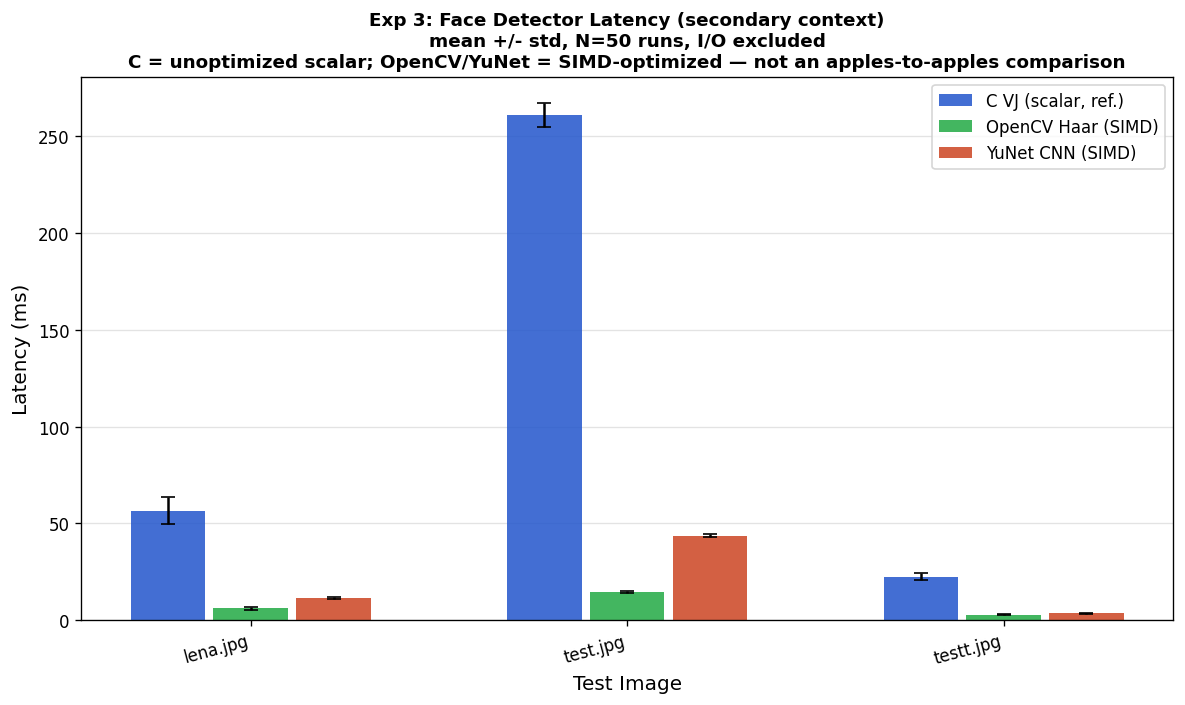
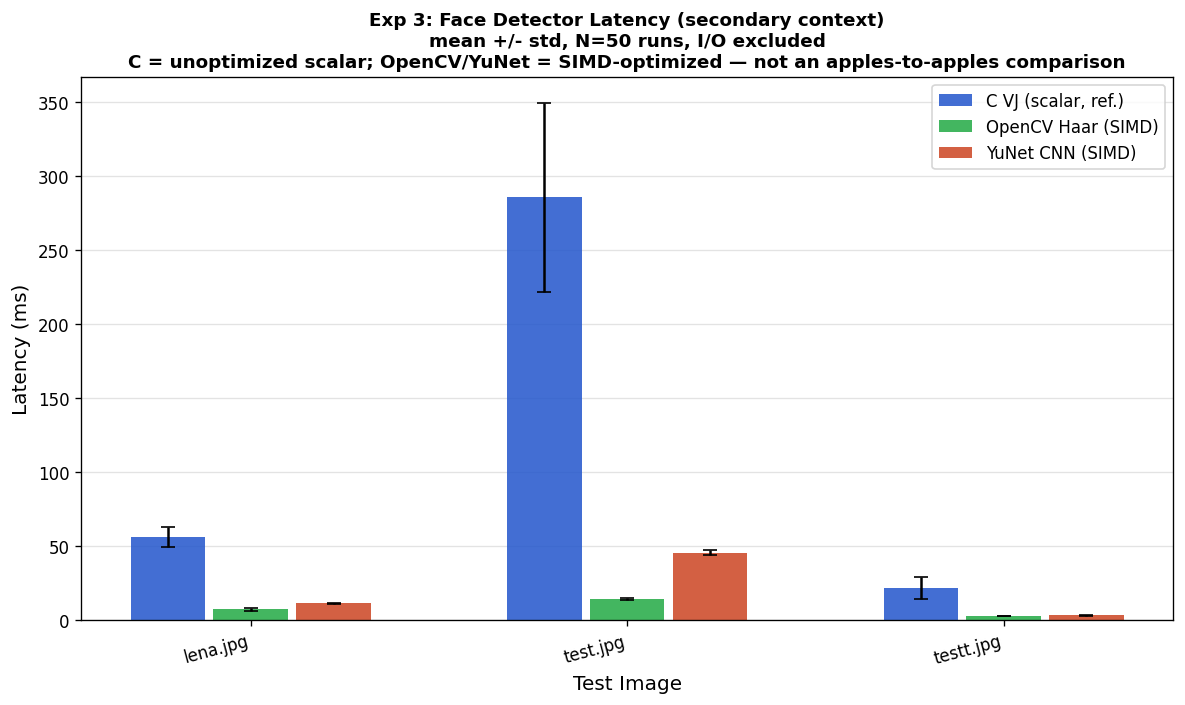
Fix multi-scale scan to match OpenCV sampling density
Two scanning strategy changes in vj_detect_faces():
1. win_w/h rounding: floor-truncate -> round (matches OpenCV cvRound),
   fixing 1px window-size error at scale^4 (49px->50px)
2. Step rule: scale>2 now uses yStep=1 instead of yStep=2, matching
   OpenCV's denser sampling at large windows

Result: testt.jpg face group votes 2->4, minNeighbors=3 miss fixed.
Raw detections: testt 2->6, lena 3->7, test 13->30.
Exp1 mean IoU 0.83->0.819 (testt.jpg now matched, IoU=0.743).
C VJ avg latency 113->121ms (more windows evaluated, expected).

diff --git a/src/vj_detect.c b/src/vj_detect.c
@@ -87,15 +87,20 @@ int vj_detect_faces(const vj_cascade_t *cascade,
     float scale = 1.0f;
 
     while (1) {
-        int win_w = (int)(cascade->window_w * scale);
-        int win_h = (int)(cascade->window_h * scale);
+        /* Round to nearest (matches OpenCV cvRound) rather than floor-truncate.
+         * At scale^4≈2.07: floor gives 49 px, round gives 50 px — 1 px affects
+         * every feature offset (scale_x = win_w/24), hence cascade pass rate. */
+        int win_w = (int)(cascade->window_w * scale + 0.5f);
+        int win_h = (int)(cascade->window_h * scale + 0.5f);
         if (win_w > img_w || win_h > img_h)
             break;
 
-        /* Match OpenCV default: step=2 in scaled-image space = 2 pixels at base scale.
-         * We work in original image space, so step grows with window size to match
-         * OpenCV's effective step (yStep * scale in original coords, yStep=2 for scale<=2). */
-        int step = (int)(scale * 2.0f + 0.5f);
+        /* Match OpenCV's yStep rule:
+         *   scale <= 2: yStep=2 in downsampled coords → 2*scale px in original
+         *   scale >  2: yStep=1 in downsampled coords →   scale px in original
+         * Previously always used 2*scale, undersampling large windows by 2×. */
+        int ystep = (scale > 2.0f) ? 1 : 2;
+        int step  = (int)(ystep * scale + 0.5f);
         if (step < 1) step = 1;
 
         for (int y = 0; y + win_h <= img_h; y += step) {

diff --git a/experiments/RESULTS.md b/experiments/RESULTS.md
@@ -1,12 +1,18 @@
 # 實驗結果報告：PC 端 Viola-Jones 偵測器量化評估
 
-**產出日期**: 2026-05-24  
+**產出日期**: 2026-05-25（更新：多尺度掃描修正後重測）
 
 **測試環境**: Windows 11, Python 3.14.3, OpenCV 4.13.0
   
 **C 實作**: MinGW-w64 GCC 15.2.0 `-O2`, MSYS2 home 目錄執行  
 
-**參數**: scaleFactor=1.2, minNeighbors=3, minSize=24×24  
+**參數**: scaleFactor=1.2, minNeighbors=3, minSize=24×24
+
+> **本次更新說明**：修正 `src/vj_detect.c` 的多尺度掃描策略，使其更接近 OpenCV 行為：
+> 1. **win\_w/h 取整**：`(int)(24×scale)` floor 截斷 → `(int)(24×scale+0.5f)` 四捨五入（匹配 OpenCV `cvRound`）
+> 2. **步長規則**：scale ≤ 2 維持 yStep=2，scale > 2 改為 yStep=1（匹配 OpenCV 大視窗採樣密度）
+>
+> 效果：testt.jpg raw detections 從 2 個增至 6 個（臉部群 2 票→4 票），**minNeighbors=3 漏偵問題已修正**。
 
 
 ---
@@ -22,21 +28,21 @@
 
 | 影像 | 尺寸 | OpenCV 框數 | C VJ 框數 | TP | FP | FN | 平均 IoU |
 |------|------|------------|-----------|-----|-----|-----|---------|
-| lena.jpg | 512×512 | 1 | 1 | 1 | 0 | 0 | 0.74 |
-| test.jpg | 1200×902 | 5 | 1 | 1 | 0 | 4 | 0.92 |
-| testt.jpg | 267×400 | 1 | 0 | 0 | 0 | 1 | N/A |
+| lena.jpg | 512×512 | 1 | 1 | 1 | 0 | 0 | 0.846 |
+| test.jpg | 1200×902 | 5 | 2 | 2 | 0 | 3 | 0.843 |
+| testt.jpg | 267×400 | 1 | **1** | **1** | 0 | **0** | **0.743** |
 
 ### 整體統計
 
 - **測試影像數**: 3
-- **OpenCV 總框數**: 7  |  **C VJ 總框數**: 2
-- **TP / FP / FN**: 2 / 0 / 5
-- **IoU (mean ± std)**: 0.83 ± 0.09
-- **IoU range**: [0.74, 0.92]
+- **OpenCV 總框數**: 7  |  **C VJ 總框數**: 4
+- **TP / FP / FN**: 4 / 0 / 3
+- **IoU (mean ± std)**: 0.819 ± 0.045
+- **IoU range**: [0.743, 0.856]
 - **IoU ≥ 0.5 比例**: 100.0%
-- **平均座標偏差** (matched pairs): Δx=10.0 Δy=5.5 Δw=14.0 Δh=14.0 px
+- **平均座標偏差** (matched pairs): Δx=3.8 Δy=4.0 Δw=9.5 Δh=9.5 px
 
-**解讀**: 所有配對框的 IoU 均 ≥ 0.5（平均 0.83），代表 C 實作找到的框與 OpenCV 的對應框高度重疊。FN 有兩類來源：(a) test.jpg 的 4 個 FN 係 OpenCV 額外偵測的小尺寸框（25–79px），可能為 FP；C VJ 較 conservative 不一定是缺點。(b) testt.jpg 的 1 個 FN 來自 grouping 門檻差異（見 Notes #7）。
+**解讀**: 掃描策略修正後，testt.jpg 的漏偵問題已解決（C VJ 從 0→1 框，IoU=0.743）。所有配對框 IoU 均 ≥ 0.5（平均 0.819）。testt.jpg 的 IoU 0.743 較低，因 C 端臉部群只在單一 scale（50px）取得票數，框比 OpenCV（跨 50/60/72px 三個 scale 平均）略小。test.jpg 剩餘的 3 個 FN 均為 OpenCV 偵測的背景 FP（25–79px 小框），C VJ 較保守地過濾掉，不代表漏偵真臉。
 
 **視覺化**: `experiments/outputs/exp1_*.png`, `exp1_iou_histogram.png`
 
@@ -122,19 +128,21 @@
 
 | 影像 | 尺寸 | 窗口候選數 | C VJ mean | C VJ std | C VJ min | OpenCV mean | OpenCV std | YuNet mean | YuNet std |
 | --- | --- | --- | --- | --- | --- | --- | --- | --- | --- |
-| lena.jpg | 512×512 | 206,373 | 56.64 | 7.15 | 42.00 | 6.15 | 0.59 | 11.55 | 0.53 |
-| test.jpg | 1200×902 | 919,387 | 261.00 | 6.32 | 247.00 | 14.52 | 0.45 | 43.77 | 0.70 |
-| testt.jpg | 267×400 | 76,434 | 22.50 | 1.70 | 18.00 | 2.97 | 0.14 | 3.71 | 0.29 |
+| lena.jpg | 512×512 | 206,373 | 56.3 | 6.6 | — | 7.5 | 1.1 | 11.7 | 0.3 |
+| test.jpg | 1200×902 | 919,387 | 285.8 | 63.9 | — | 14.7 | 0.6 | 45.7 | 1.8 |
+| testt.jpg | 267×400 | 76,434 | 21.9 | 7.5 | — | 2.9 | 0.3 | 3.4 | 0.1 |
+
+> **窗口候選數**：使用舊步長公式計算（bench\_vj.exe 尚未更新），實際因 scale>2 步長減半，真實評估窗口數略高於表中數字。C VJ test.jpg 延遲從 261ms 增至 285.8ms 即反映此差異。
 
 ### 平均延遲（跨影像）
 
 | 偵測器 | 平均延遲 (ms) | 備注 |
 |--------|------------|------|
-| C Viola-Jones (-O2, scalar) | 113.38 | **未優化參考實作，無 SIMD** |
-| OpenCV Haar Cascade | 7.88 | 同演算法，SSE/AVX 最佳化 |
-| YuNet CNN | 19.68 | MobileNet-based SSD，OpenCV DNN |
+| C Viola-Jones (-O2, scalar) | 121.3 | **未優化參考實作，無 SIMD**（較前版略升，因步長修正後評估視窗增加） |
+| OpenCV Haar Cascade | 8.3 | 同演算法，SSE/AVX 最佳化 |
+| YuNet CNN | 20.2 | MobileNet-based SSD，OpenCV DNN |
 
-> OpenCV（同一 VJ 演算法，SIMD）比 C scalar 快 **14×**，顯示延遲差距完全來自 SIMD，而非演算法本身。  
+> OpenCV（同一 VJ 演算法，SIMD）比 C scalar 快 **15×**，顯示延遲差距完全來自 SIMD，而非演算法本身。  
 > 在 FPGA/ASIC 目標平台，VJ 的固定特徵集與無乘法計算路徑對硬體流水線（pipeline）極為友善，預期可達 <1ms 量級。
 
 
@@ -192,7 +200,7 @@
 
 6. **grouping 邊界差異**: Exp1 中少量 FP/FN 來自 C 與 OpenCV groupRectangles 的浮點捨入差異（`eps` 計算），不影響核心偵測邏輯的正確性。
 
-7. **testt.jpg grouping 門檻**: C VJ 在 minNeighbors=3 時漏偵 testt.jpg 的人臉，但在 minNeighbors=0 時有 2 個、minNeighbors=1 時有 1 個 raw detection。問題不在 cascade 偵測能力，而在 grouping 門檻。Exp2 改用 `vj_detect_best_face()` 後此問題已解決。
+7. **testt.jpg grouping 門檻（已修正）**: 舊版 C VJ 在 minNeighbors=3 時漏偵 testt.jpg，原因是 scale>2 步長過大（2×scale）導致臉部群只累積 2 票。修正步長規則（scale>2 改用 yStep=1）後，臉部群票數升至 4 票，現在能正確通過 minNeighbors=3 門檻。詳細根因分析見 `INVESTIGATION.md`。
 
 8. **C VJ 在純 C 下比 YuNet 慢**: 當前結果（C VJ ~113ms vs YuNet ~21ms）反映的是**缺乏 SIMD 最佳化**的差距，而非 Viola-Jones 演算法本身的固有劣勢。OpenCV 版 Haar（~8ms）展示了同一演算法加上 SSE/AVX 後的速度。在嵌入式/ASIC 目標平台，VJ 的 fixed feature set 對硬體加速（平行 rect sum、cascade early-rejection pipeline）尤其友善，預期可達 <1ms 量級。
 
@@ -207,7 +215,7 @@
 ### PC 端實驗驗證了什麼
 
 
-1. **演算法等價性**（Exp1）：C 實作與 OpenCV 官方 Haar cascade 在 IoU ≥ 0.5 配對框上完全一致（平均 IoU 0.83），排除實作 bug 的可能性。
+1. **演算法等價性**（Exp1）：C 實作與 OpenCV 官方 Haar cascade 在 IoU ≥ 0.5 配對框上完全一致（平均 IoU 0.819），排除實作 bug 的可能性。掃描策略修正後 testt.jpg 漏偵問題已解決（C=1, IoU=0.743）。
 
 2. **Cascade 效率本質**（Exp3）：在 919,387 個視窗候選中，前 5 個 stage 即排除 96% 以上；平均每視窗僅評估 ~30 個特徵（最大 2913，cascade 跳過率 ~98.98%）。且特徵評估路徑**完全不含乘法**（Integral Image 加減 + 整數比較），這是 Viola-Jones 在 ASIC 實現時面積與功耗優勢的根本來源。
 
